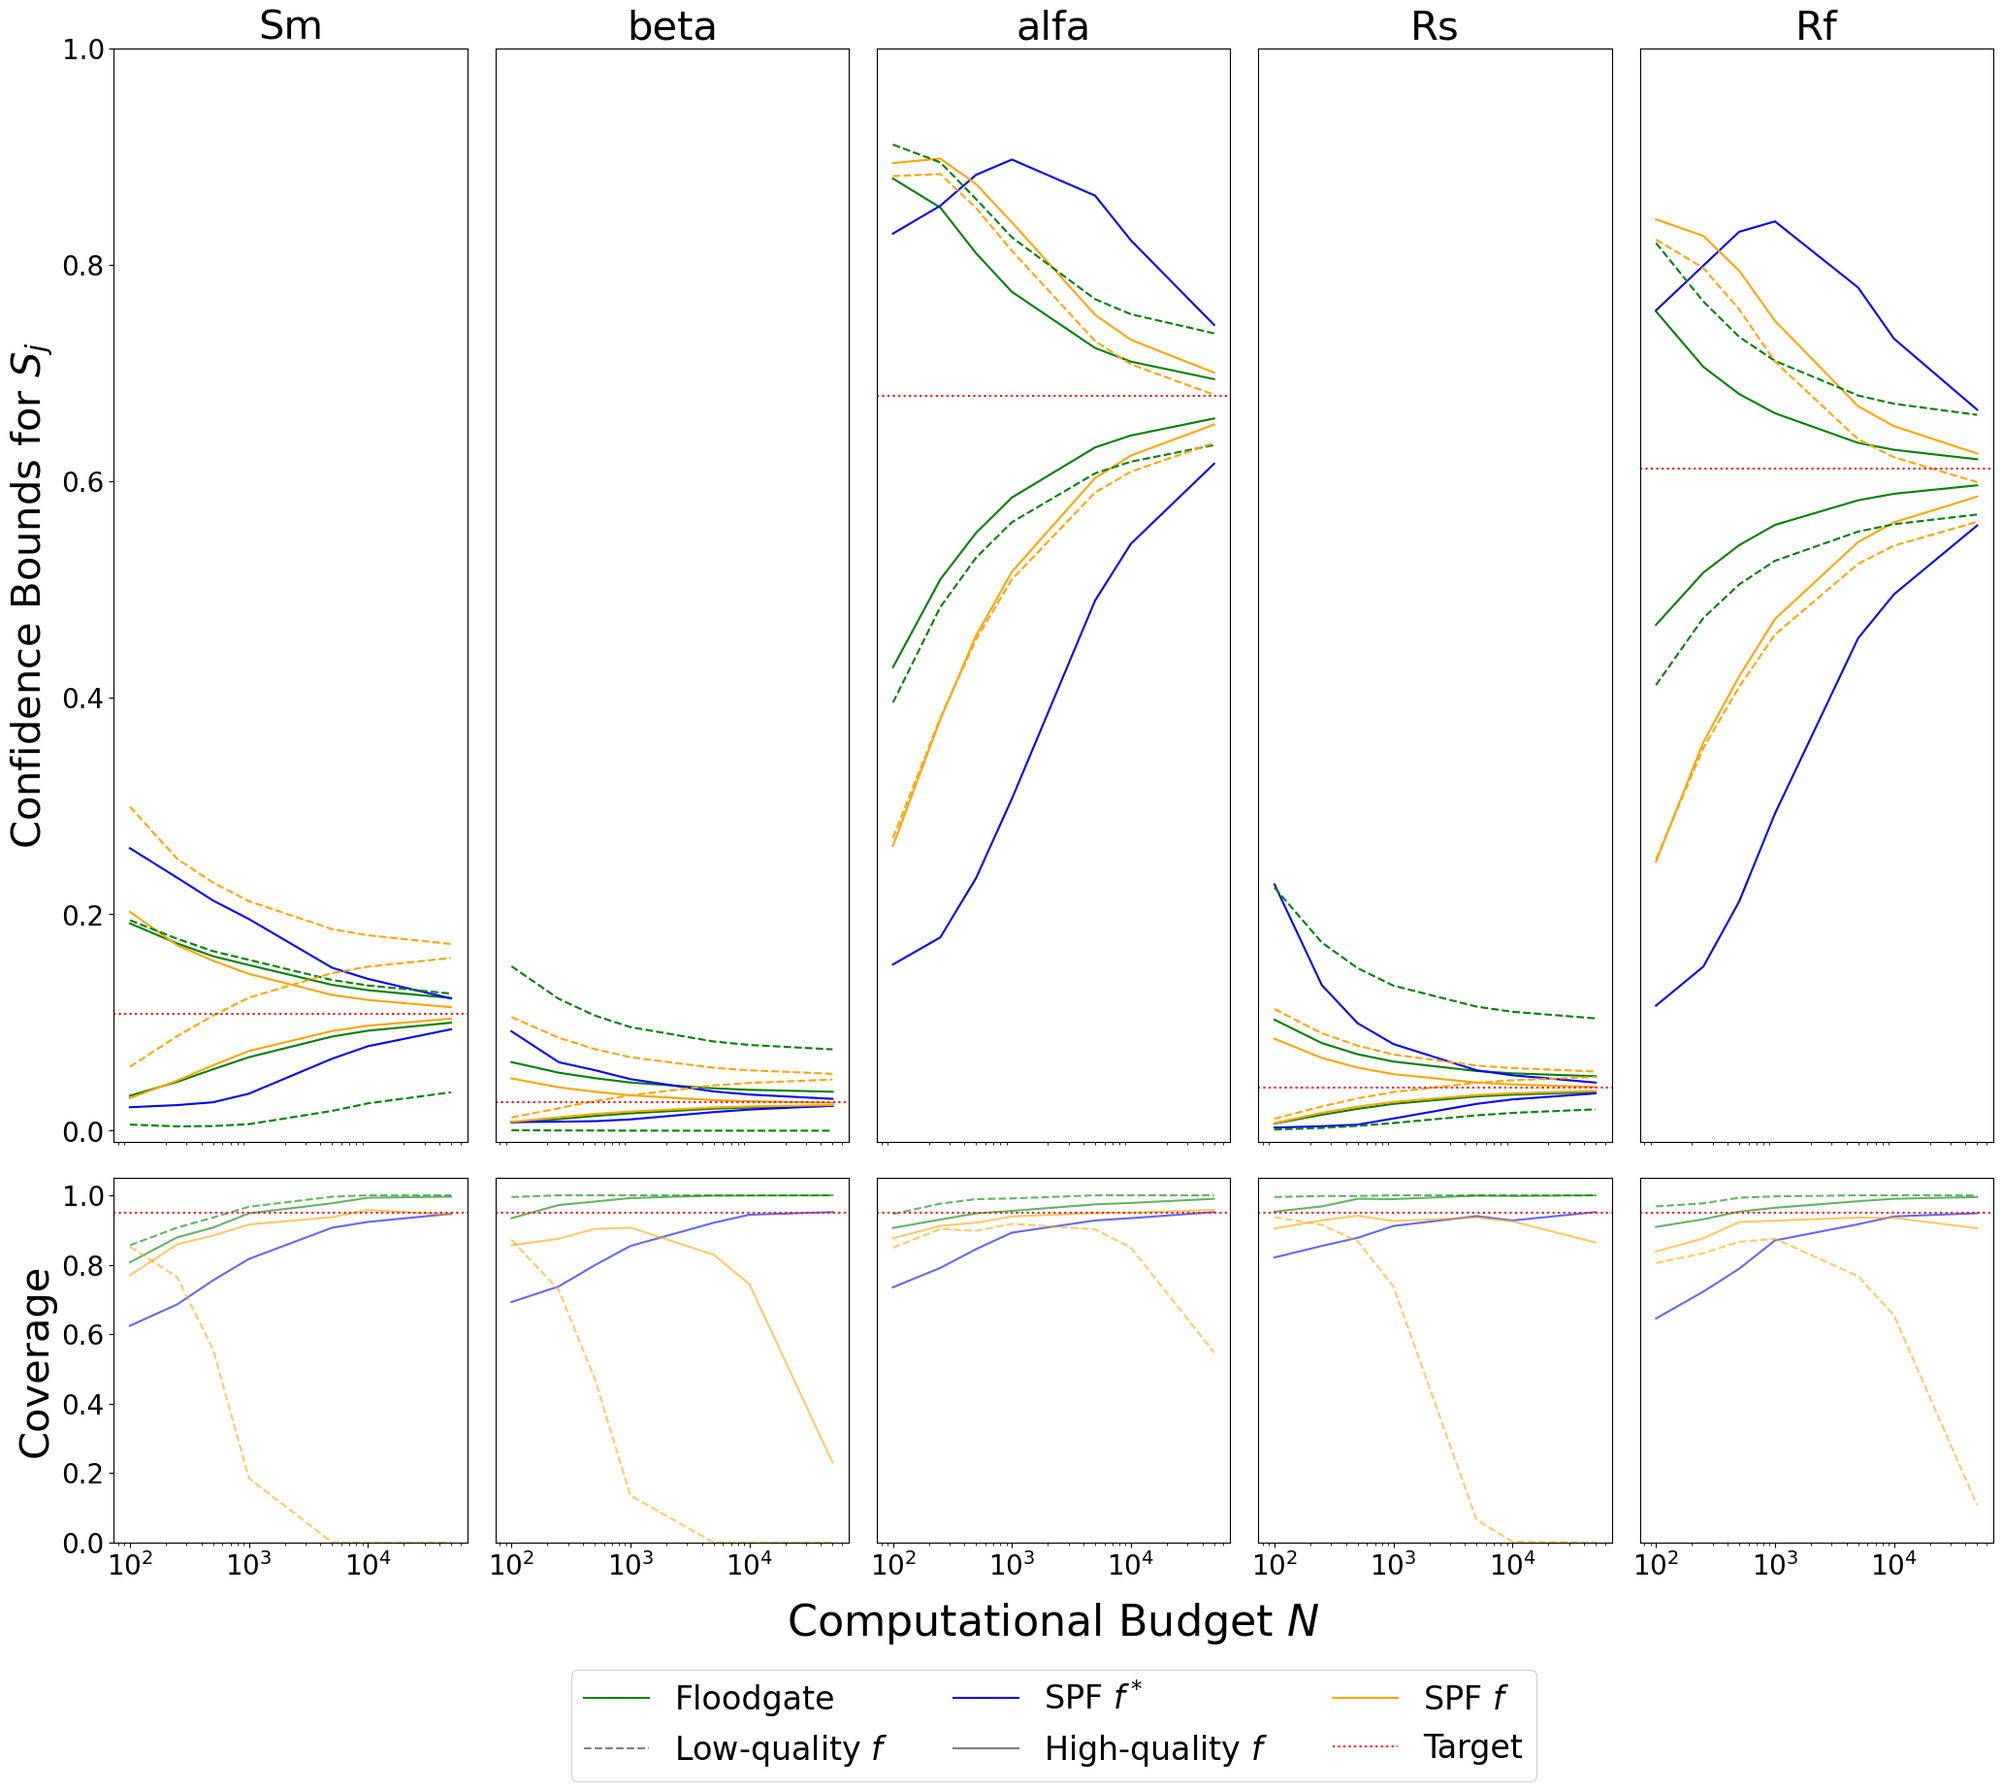
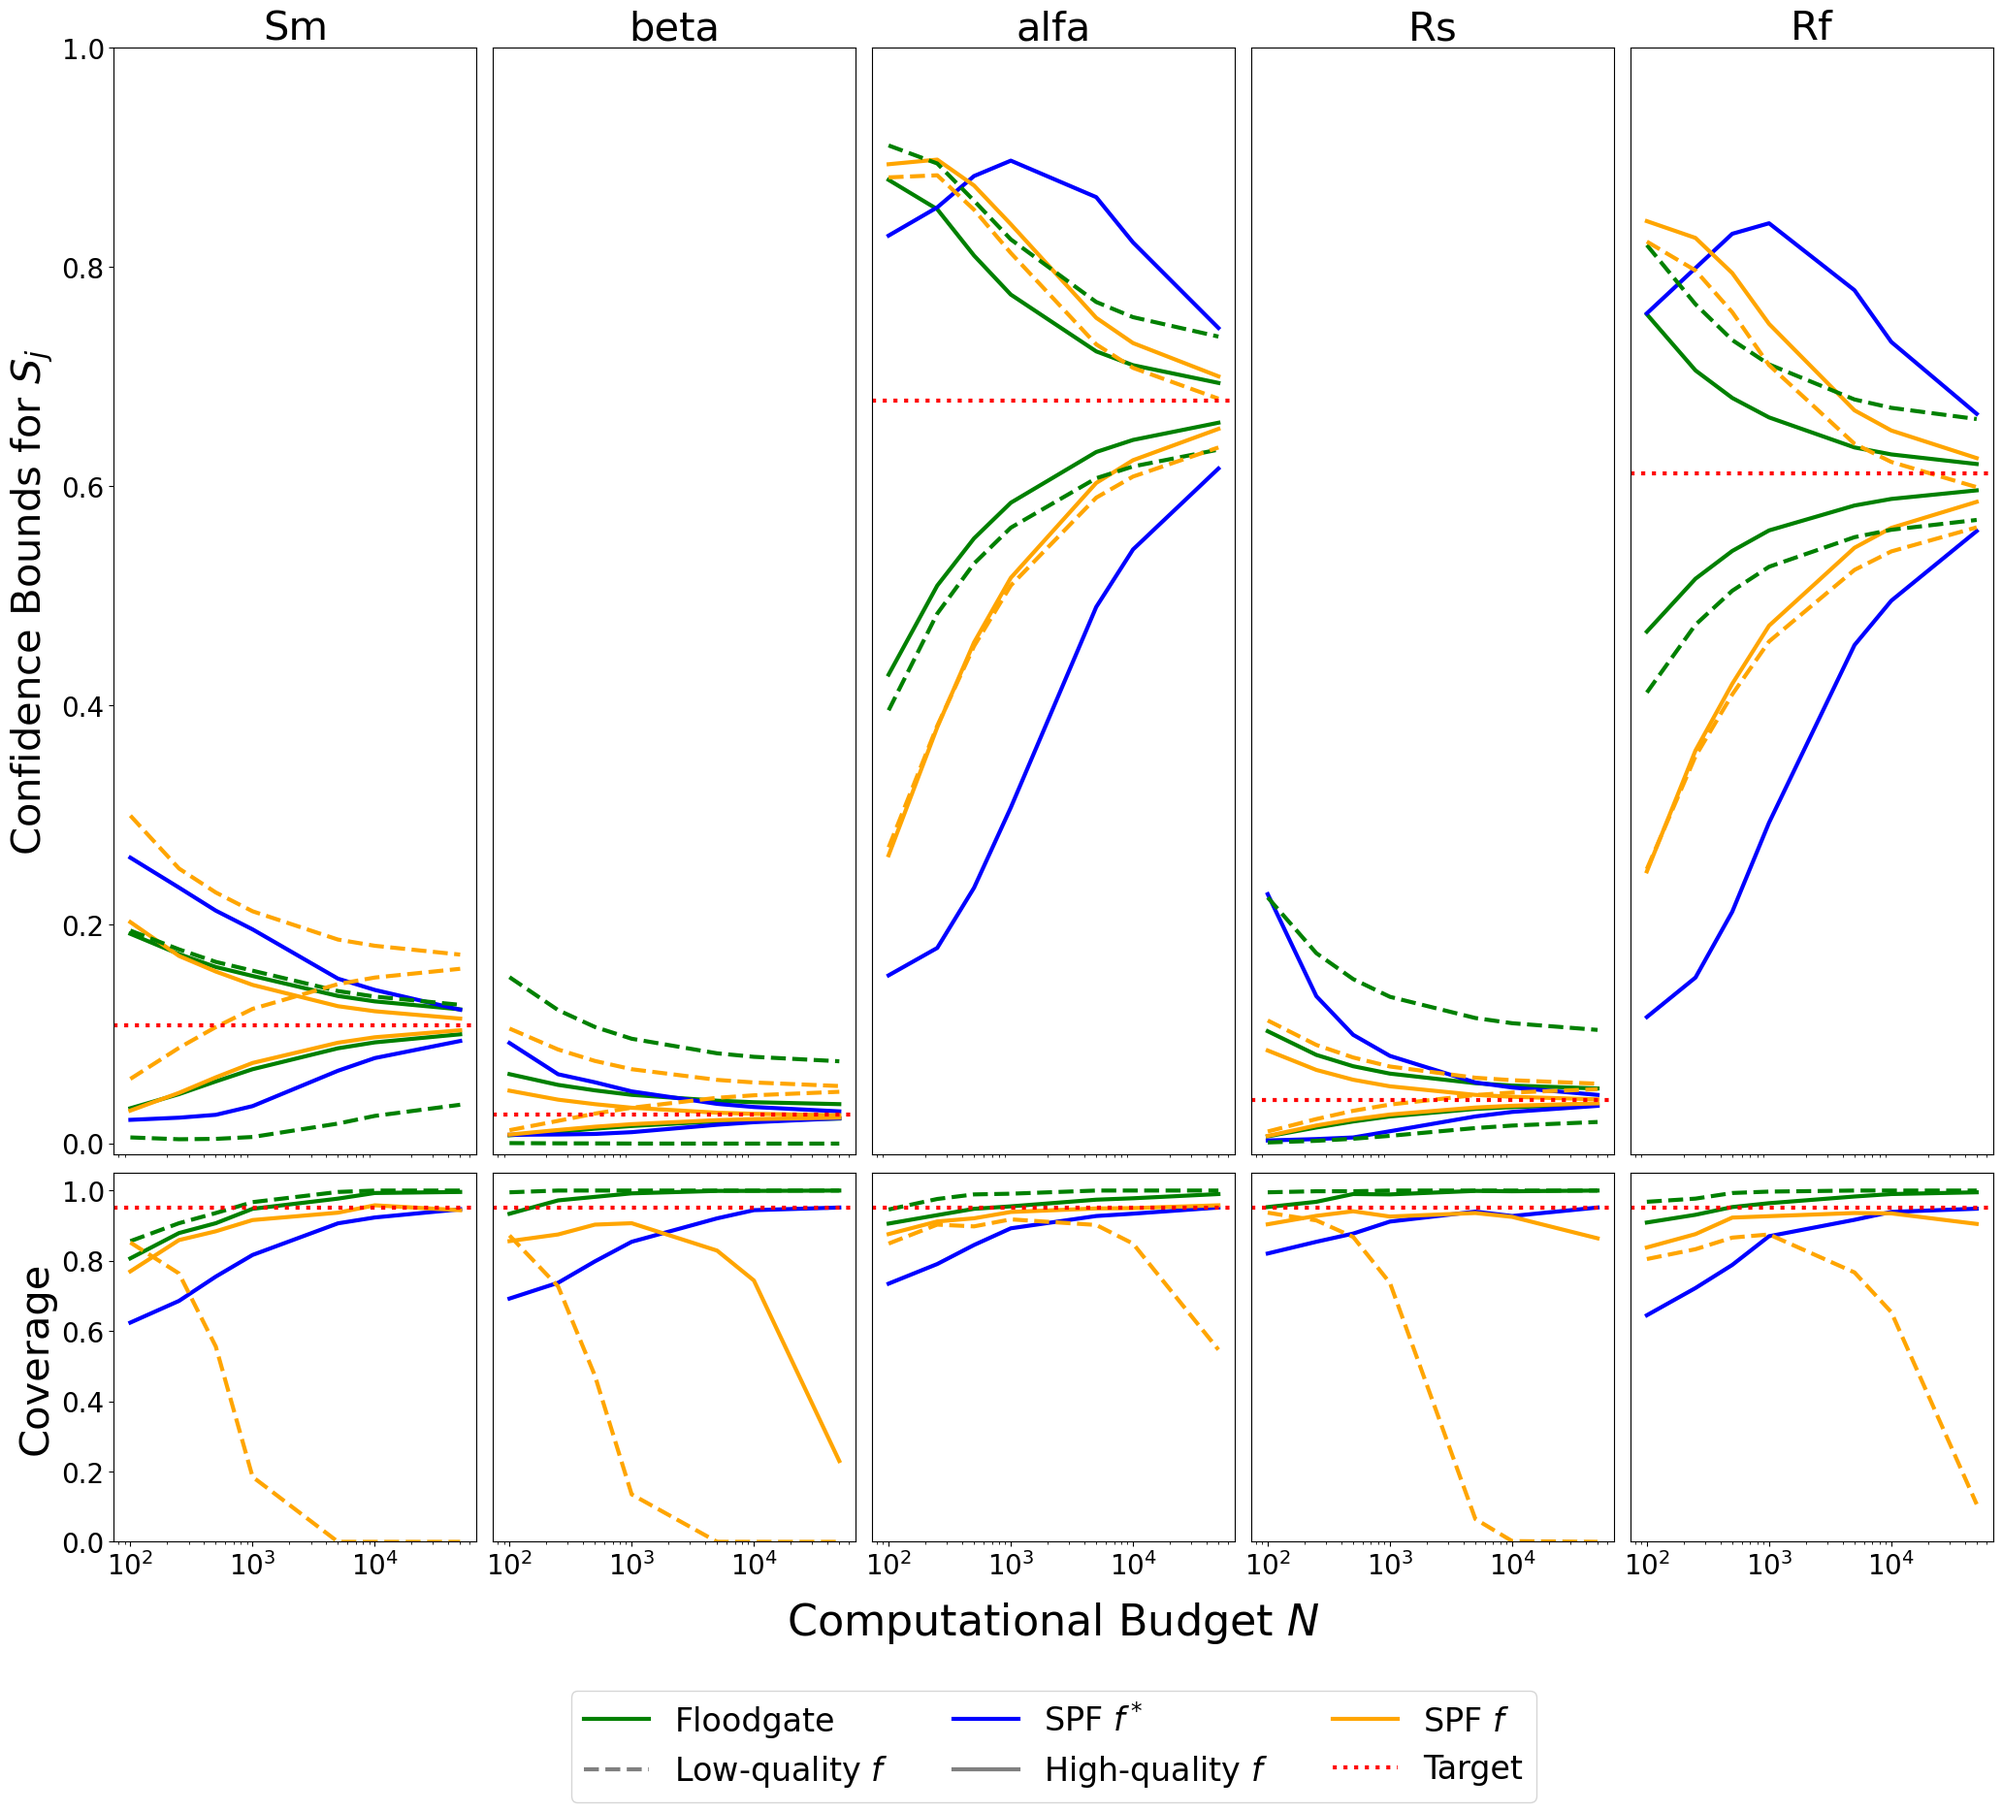
reformatted plots

diff --git a/plotting_scripts/Hymod.py b/plotting_scripts/Hymod.py
@@ -51,11 +51,11 @@ floodgate_mean = np.mean(floodgate, axis=0)
 floodgate_cov = np.mean((floodgate[:,:,:,0] < gt) * (floodgate[:,:,:,1] > gt), axis=0)
 
 for i in range(d):
-    ax[0,i].plot(sample_sizes, floodgate_mean[:,i,0], color='green', ls='-', label='Floodgate')
-    ax[0,i].plot(sample_sizes, floodgate_mean[:,i,1], color='green', ls='-')
-    ax[1,i].plot(sample_sizes, floodgate_cov[:,i], color='green', alpha=0.6, ls='-')
+    ax[0,i].plot(sample_sizes, floodgate_mean[:,i,0], color='green', ls='-', lw=3, label='Floodgate')
+    ax[0,i].plot(sample_sizes, floodgate_mean[:,i,1], color='green', ls='-', lw=3)
+    ax[1,i].plot(sample_sizes, floodgate_cov[:,i], color='green', ls='-', lw=3)
 
-ax[0,2].plot([0], [20], color='grey', ls='--', label='Low-quality $f$')
+ax[0,2].plot([0], [20], color='grey', ls='--', lw=3, label='Low-quality $f$')
 
 # Non-surrogate SPF
 for fp in os.listdir(DATA_DIR.format('spf', '.')):
@@ -65,11 +65,11 @@ spf_mean = np.mean(spf, axis=0)
 spf_cov = np.mean((spf[:,:,:,0] < gt) * (spf[:,:,:,1] > gt), axis=0)
 
 for i in range(d):
-    ax[0,i].plot(sample_sizes, spf_mean[:,i,0], color='blue', ls='-', label='SPF $f^*$')
-    ax[0,i].plot(sample_sizes, spf_mean[:,i,1], color='blue', ls='-')
-    ax[1,i].plot(sample_sizes, spf_cov[:,i], color='blue', alpha=0.6, ls='-')
+    ax[0,i].plot(sample_sizes, spf_mean[:,i,0], color='blue', ls='-', lw=3, label='SPF $f^*$')
+    ax[0,i].plot(sample_sizes, spf_mean[:,i,1], color='blue', ls='-', lw=3)
+    ax[1,i].plot(sample_sizes, spf_cov[:,i], color='blue', ls='-', lw=3)
 
-ax[0,2].plot([0], [20], color='grey', ls='-', label='High-quality $f$')
+ax[0,2].plot([0], [20], color='grey', ls='-', lw=3, label='High-quality $f$')
 
 # Surrogate SPF, high-quality surrogate
 for fp in os.listdir(DATA_DIR.format('spf_surrogate', '100000')):
@@ -79,9 +79,9 @@ spf_surrogate_mean = np.mean(spf_surrogate, axis=0)
 spf_surrogate_cov = np.mean((spf_surrogate[:,:,:,0] < gt) * (spf_surrogate[:,:,:,1] > gt), axis=0)
 
 for i in range(d):
-    ax[0,i].plot(sample_sizes, spf_surrogate_mean[:,i,0], color='orange', ls='-', label='SPF $f$')
-    ax[0,i].plot(sample_sizes, spf_surrogate_mean[:,i,1], color='orange', ls='-')
-    ax[1,i].plot(sample_sizes, spf_surrogate_cov[:,i], color='orange', alpha=0.6, ls='-')
+    ax[0,i].plot(sample_sizes, spf_surrogate_mean[:,i,0], color='orange', ls='-', lw=3, label='SPF $f$')
+    ax[0,i].plot(sample_sizes, spf_surrogate_mean[:,i,1], color='orange', ls='-', lw=3)
+    ax[1,i].plot(sample_sizes, spf_surrogate_cov[:,i], color='orange', ls='-', lw=3)
 
 
 floodgate = []
@@ -95,9 +95,9 @@ floodgate_mean = np.mean(floodgate, axis=0)
 floodgate_cov = np.mean((floodgate[:,:,:,0] < gt) * (floodgate[:,:,:,1] > gt), axis=0)
 
 for i in range(d):
-    ax[0,i].plot(sample_sizes, floodgate_mean[:,i,0], color='green', ls='--')
-    ax[0,i].plot(sample_sizes, floodgate_mean[:,i,1], color='green', ls='--')
-    ax[1,i].plot(sample_sizes, floodgate_cov[:,i], color='green', alpha=0.6, ls='--')
+    ax[0,i].plot(sample_sizes, floodgate_mean[:,i,0], color='green', ls='--', lw=3)
+    ax[0,i].plot(sample_sizes, floodgate_mean[:,i,1], color='green', ls='--', lw=3)
+    ax[1,i].plot(sample_sizes, floodgate_cov[:,i], color='green', ls='--', lw=3)
 
 # Surrogate SPF, low-quality surrogate
 for fp in os.listdir(DATA_DIR.format('spf_surrogate', '10000')):
@@ -107,9 +107,9 @@ spf_surrogate_mean = np.mean(spf_surrogate, axis=0)
 spf_surrogate_cov = np.mean((spf_surrogate[:,:,:,0] < gt) * (spf_surrogate[:,:,:,1] > gt), axis=0)
 
 for i in range(d):
-    ax[0,i].plot(sample_sizes, spf_surrogate_mean[:,i,0], color='orange', ls='--')
-    ax[0,i].plot(sample_sizes, spf_surrogate_mean[:,i,1], color='orange', ls='--')
-    ax[1,i].plot(sample_sizes, spf_surrogate_cov[:,i], color='orange', alpha=0.6, ls='--')
+    ax[0,i].plot(sample_sizes, spf_surrogate_mean[:,i,0], color='orange', ls='--', lw=3)
+    ax[0,i].plot(sample_sizes, spf_surrogate_mean[:,i,1], color='orange', ls='--', lw=3)
+    ax[1,i].plot(sample_sizes, spf_surrogate_cov[:,i], color='orange', ls='--', lw=3)
 
 
 
@@ -118,8 +118,8 @@ x_tick_labs = ['100', '1000', '10000', '100000']
 for i in range(d):
     ax[0,i].set(xscale='log', title=X_labels[i], ylim=(-.01,1))
     ax[1,i].set(xticks=x_ticks, xscale='log')
-    ax[0,i].axhline(y=gt[i], color='red', ls=':', label='Target')
-    ax[1,i].axhline(y=0.95, color='red', ls=':')
+    ax[0,i].axhline(y=gt[i], color='red', ls=':', lw=3, label='Target')
+    ax[1,i].axhline(y=0.95, color='red', ls=':', lw=3)
     ax[1,i].set_ylim((0,1.05))
     if i > 0:
         ax[0,i].set_yticks([])
@@ -132,7 +132,7 @@ ax[1,0].set(ylabel='Coverage')
 ax[1,2].set_xlabel('Computational Budget $N$', fontsize=HUGE_SIZE)
 ax[0,2].legend(loc='lower center', bbox_to_anchor=(0.5, -.6), ncol=3, fancybox=True)
 ax[1,2].xaxis.labelpad = 15
-fig.subplots_adjust(wspace=0.08, hspace=0.05)
+fig.subplots_adjust(wspace=0.045, hspace=0.025)
 
 # Save plots
 plt.savefig(FIG_DIR + 'Hymod_bounds.png', bbox_inches="tight")
@@ -171,10 +171,10 @@ floodgate_mean = np.mean(floodgate[:,:,:,1] - floodgate[:,:,:,0], axis=0)
 floodgate_cov = np.mean((floodgate[:,:,:,0] < gt) * (floodgate[:,:,:,1] > gt), axis=0)
 
 for i in range(d):
-    ax[0,i].plot(sample_sizes, floodgate_mean[:,i], color='green', ls='-', label='Floodgate')
-    ax[1,i].plot(sample_sizes, floodgate_cov[:,i], color='green', alpha=0.6, ls='-')
+    ax[0,i].plot(sample_sizes, floodgate_mean[:,i], color='green', ls='-', lw=3, label='Floodgate')
+    ax[1,i].plot(sample_sizes, floodgate_cov[:,i], color='green', ls='-', lw=3)
 
-ax[0,2].plot([0], [20], color='grey', ls='--', label='Low-quality $f$')
+ax[0,2].plot([0], [20], color='grey', ls='--', lw=3, label='Low-quality $f$')
 
 # Panin bound, high-quality surrogate
 for fp in os.listdir(DATA_DIR.format('panin', 100000)):
@@ -184,10 +184,10 @@ panin_mean = np.mean(panin[:,:,:,1] - panin[:,:,:,0], axis=0)
 panin_cov = np.mean((panin[:,:,:,0] < gt) * (panin[:,:,:,1] > gt), axis=0)
 
 for i in range(d):
-    ax[0,i].plot(sample_sizes, panin_mean[:,i], color='purple', ls='-', label='Panin Bounds')
-    ax[1,i].plot(sample_sizes, panin_cov[:,i], color='purple', alpha=0.6, ls='-')
+    ax[0,i].plot(sample_sizes, panin_mean[:,i], color='purple', ls='-', lw=3, label='Panin Bounds')
+    ax[1,i].plot(sample_sizes, panin_cov[:,i], color='purple', ls='-', lw=3)
 
-ax[0,2].plot([0], [20], color='grey', ls='-', label='High-quality $f$')
+ax[0,2].plot([0], [20], color='grey', ls='-', lw=3, label='High-quality $f$')
 
 
 floodgate = []
@@ -201,8 +201,8 @@ floodgate_mean = np.mean(floodgate[:,:,:,1] - floodgate[:,:,:,0], axis=0)
 floodgate_cov = np.mean((floodgate[:,:,:,0] < gt) * (floodgate[:,:,:,1] > gt), axis=0)
 
 for i in range(d):
-    ax[0,i].plot(sample_sizes, floodgate_mean[:,i], color='green', ls='--')
-    ax[1,i].plot(sample_sizes, floodgate_cov[:,i], color='green', alpha=0.6, ls='--')
+    ax[0,i].plot(sample_sizes, floodgate_mean[:,i], color='green', ls='--', lw=3)
+    ax[1,i].plot(sample_sizes, floodgate_cov[:,i], color='green', ls='--', lw=3)
 
 # Panin bound, low-quality surrogate
 for fp in os.listdir(DATA_DIR.format('panin', 10000)):
@@ -212,17 +212,17 @@ panin_mean = np.mean(panin[:,:,:,1] - panin[:,:,:,0], axis=0)
 panin_cov = np.mean((panin[:,:,:,0] < gt) * (panin[:,:,:,1] > gt), axis=0)
 
 for i in range(d):
-    ax[0,i].plot(sample_sizes, panin_mean[:,i], color='purple', ls='--')
-    ax[1,i].plot(sample_sizes, panin_cov[:,i], color='purple', alpha=0.6, ls='--')
+    ax[0,i].plot(sample_sizes, panin_mean[:,i], color='purple', ls='--', lw=3)
+    ax[1,i].plot(sample_sizes, panin_cov[:,i], color='purple', ls='--', lw=3)
 
-ax[0,2].plot([0], [20], color='red', ls=':', label="Target")
+ax[0,2].plot([0], [20], color='red', ls=':', lw=3, label="Target")
 
 
 # Plot formatting
 for i in range(d):
     ax[0,i].set(xscale='log', title=X_labels[i])
     ax[1,i].set(xticks=x_ticks, xscale='log')   
-    ax[1,i].axhline(y=0.95, color='red', ls=':')
+    ax[1,i].axhline(y=0.95, color='red', ls=':', lw=3)
     ax[0,i].set_ylim((0,1.01))
     ax[1,i].set_ylim((0,1.05))
     if i > 0:
@@ -235,7 +235,7 @@ ax[1,0].set(ylabel='Coverage')
 ax[1,2].set_xlabel('Computational Budget $N$', fontsize=HUGE_SIZE)
 ax[0,2].legend(loc='lower center', bbox_to_anchor=(0.5, -1.7), ncol=3, fancybox=True)
 ax[1,2].xaxis.labelpad = 15
-fig.subplots_adjust(wspace=0.07, hspace=0.07)
+fig.subplots_adjust(wspace=0.04, hspace=0.04)
 
 # Save plots
 plt.savefig(FIG_DIR + 'Hymod_panin_widths.png', bbox_inches="tight")

diff --git a/plotting_scripts/CBMZ.py b/plotting_scripts/CBMZ.py
@@ -39,14 +39,14 @@ spf = np.load(DATA_PATH.format('spf'))
 panin = np.load(DATA_PATH.format('panin'))
 
 for (i, idx) in enumerate(plot_subset):
-    ax[i].plot(sample_sizes, floodgate[:,idx,0], color='green', ls='-', alpha=0.9, label='Floodgate')
-    ax[i].plot(sample_sizes, floodgate[:,idx,1], color='green', ls='-', alpha=0.9)
+    ax[i].plot(sample_sizes, floodgate[:,idx,0], color='green', ls='-', lw=3, label='Floodgate')
+    ax[i].plot(sample_sizes, floodgate[:,idx,1], color='green', ls='-', lw=3)
 
-    ax[i].plot(sample_sizes, spf[:,idx,0], color='orange', ls='-', alpha=0.9, label='SPF $f$')
-    ax[i].plot(sample_sizes, spf[:,idx,1], color='orange', ls='-', alpha=0.9)
+    ax[i].plot(sample_sizes, spf[:,idx,0], color='orange', ls='-', lw=3, label='SPF $f$')
+    ax[i].plot(sample_sizes, spf[:,idx,1], color='orange', ls='-', lw=3)
 
-    ax[i].plot(sample_sizes, panin[:,idx,0], color='purple', ls='-', alpha=0.9, label='Panin Bounds')
-    ax[i].plot(sample_sizes, panin[:,idx,1], color='purple', ls='-', alpha=0.9)
+    ax[i].plot(sample_sizes, panin[:,idx,0], color='purple', ls='-', lw=3, label='Panin Bounds')
+    ax[i].plot(sample_sizes, panin[:,idx,1], color='purple', ls='-', lw=3)
 
 
 x_ticks = [1000, 10000, 100000]
@@ -61,7 +61,7 @@ ax[0].set(ylabel='Confidence Bounds for $S_j$')
 ax[1].set_xlabel('Computational Budget $N$')
 ax[1].legend(loc='lower center', bbox_to_anchor=(0.5, -0.4), ncol=3, fancybox=True)
 ax[1].xaxis.labelpad = 12
-fig.subplots_adjust(wspace=0.075)
+fig.subplots_adjust(wspace=0.035)
 
 # Save plots
 plt.savefig(FIG_DIR + 'CBMZ_bounds.png', bbox_inches="tight")
@@ -84,14 +84,14 @@ plt.rc('figure', titlesize=60)   # fontsize of the figure title
 fig, ax = plt.subplots(13, 8, figsize=(85,130))
 
 for (i, ax_) in enumerate(ax.ravel()[:d]):
-    ax_.plot(sample_sizes, floodgate[:,i,0], color='green', ls='-', alpha=0.9, label='Floodgate')
-    ax_.plot(sample_sizes, floodgate[:,i,1], color='green', ls='-', alpha=0.9)
+    ax_.plot(sample_sizes, floodgate[:,i,0], color='green', ls='-', lw=3, label='Floodgate')
+    ax_.plot(sample_sizes, floodgate[:,i,1], color='green', ls='-', lw=3)
 
-    ax_.plot(sample_sizes, spf[:,i,0], color='orange', ls='-', alpha=0.9, label='SPF $f$')
-    ax_.plot(sample_sizes, spf[:,i,1], color='orange', ls='-', alpha=0.9)
+    ax_.plot(sample_sizes, spf[:,i,0], color='orange', ls='-', lw=3, label='SPF $f$')
+    ax_.plot(sample_sizes, spf[:,i,1], color='orange', ls='-', lw=3)
 
-    ax_.plot(sample_sizes, panin[:,i,0], color='purple', ls='-', alpha=0.9, label='Panin Bounds')
-    ax_.plot(sample_sizes, panin[:,i,1], color='purple', ls='-', alpha=0.9)
+    ax_.plot(sample_sizes, panin[:,i,0], color='purple', ls='-', lw=3, label='Panin Bounds')
+    ax_.plot(sample_sizes, panin[:,i,1], color='purple', ls='-', lw=3)
 
 
 
@@ -104,9 +104,6 @@ for (i, ax_) in enumerate(ax.ravel()[:d]):
     else:
         ax_.set_xticks(x_ticks)
 
-#for i in range(13*7-d):
-#    ax[13,i].set_xticks(x_ticks)
-
 
 ax[6,0].set(ylabel='Confidence Bounds for $S_j$')
 ax[-1,3].set_xlabel('\t\t     Computational Budget $N$', fontsize=85)
@@ -115,7 +112,7 @@ ax[7,5].xaxis.labelpad = 25
 
 for i in range(5,8):
     ax[-1,i].axis('off')
-fig.subplots_adjust(wspace=0.09, hspace=0.12)
+fig.subplots_adjust(wspace=0.04, hspace=0.12)
 
 # Save plots
 plt.savefig(FIG_DIR + 'CBMZ_full.png', bbox_inches="tight")
